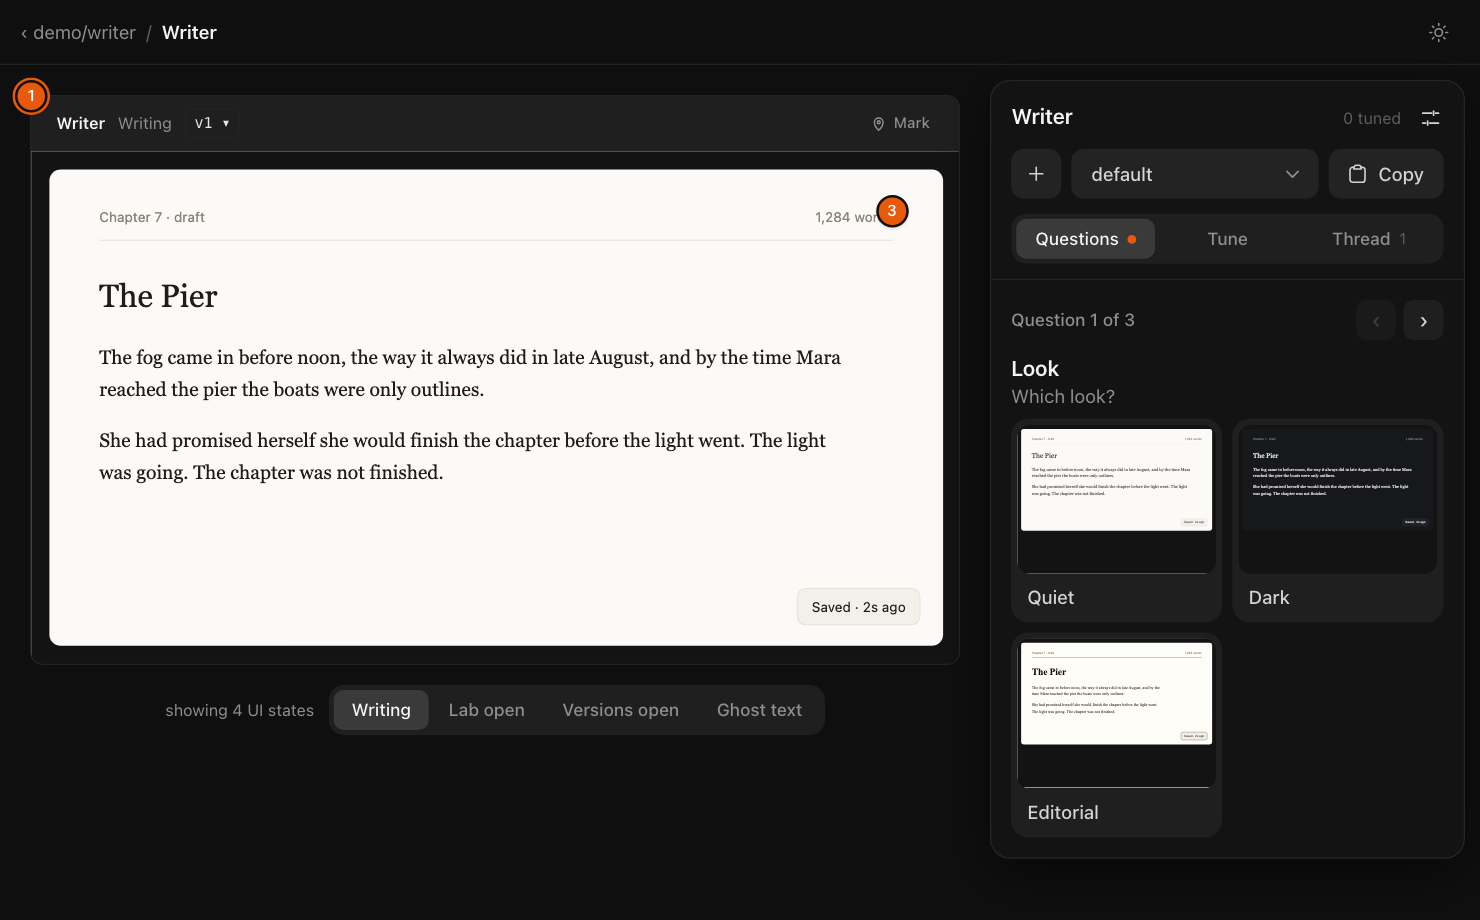
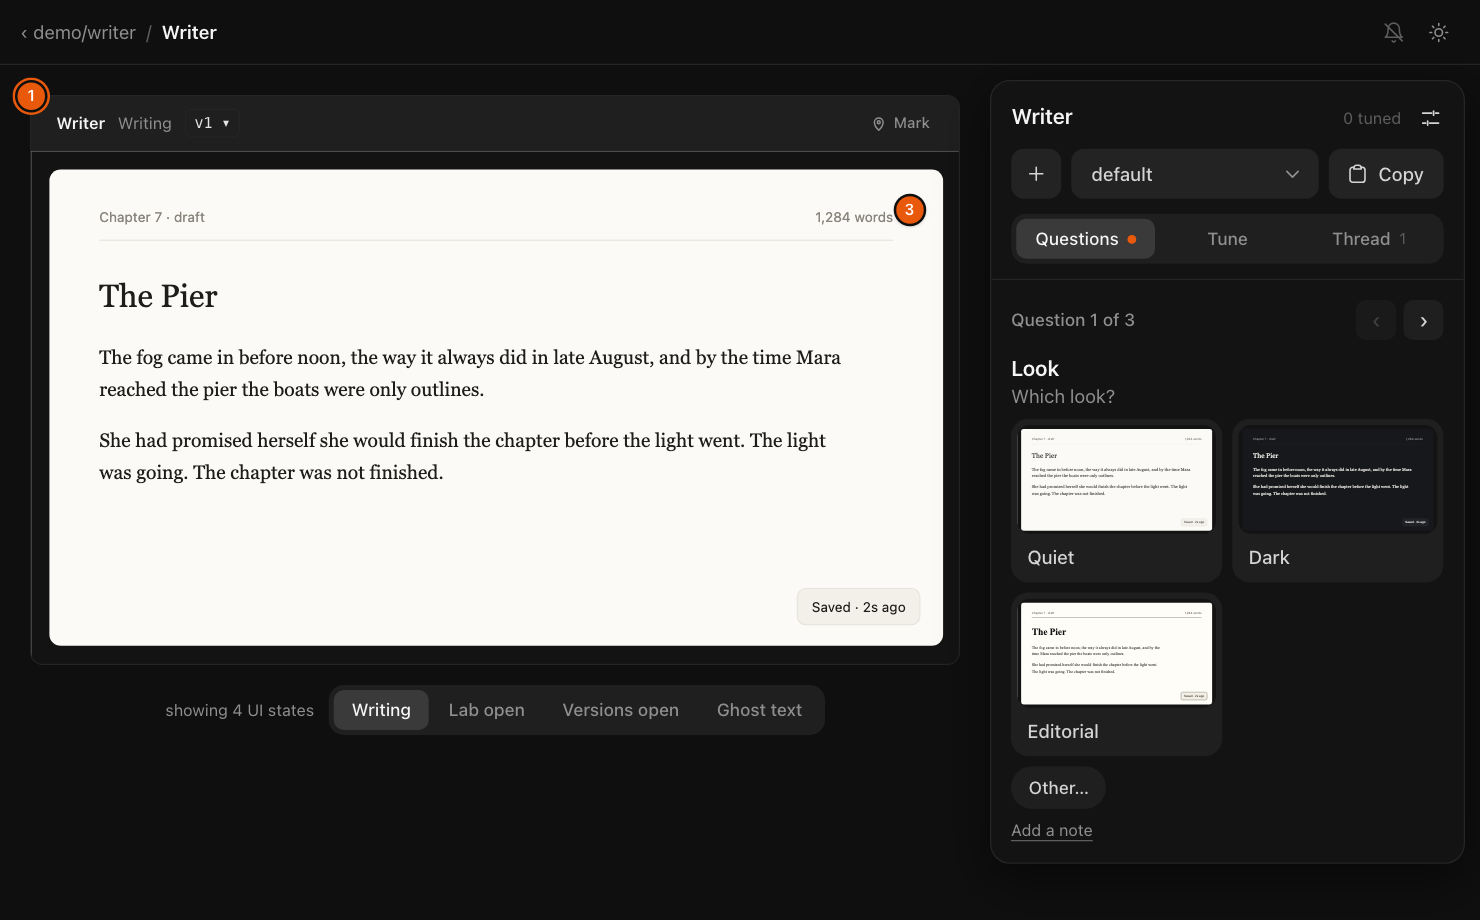
docs(readme): re-record the stills and demo gif on the new loop
The gif now shows Sent, Not seen yet, then Delivered once the agent reads
the feedback, and the agent's v2.

diff --git a/README.md b/README.md
@@ -8,10 +8,19 @@ questions beside it: pick a look from pictures, tune the knobs it exposed, leave
 comments on the parts it marked, then press **Send**, at your own pace. Nothing
 the agent calls waits for you: it gets the whole batch once and revises.
 
-<picture>
-  <source media="(prefers-color-scheme: dark)" srcset="docs/mockpit-dark.png">
-  <img width="100%" alt="The Writer mock on its first question, Look: the Writing state on the stage with a numbered question pin, the strip of four UI states below it, and the panel offering three looks (Quiet, Dark, Editorial) as picture options" src="docs/mockpit-light.png">
-</picture>
+<table>
+  <tr>
+    <td width="50%" valign="top">
+      <picture>
+        <source media="(prefers-color-scheme: dark)" srcset="docs/mockpit-dark.png">
+        <img width="100%" alt="The Writer mock on its first question, Look: the Writing state on the stage with a numbered question pin, the strip of four UI states below it, and the panel offering three looks (Quiet, Dark, Editorial) as picture options" src="docs/mockpit-light.png">
+      </picture>
+    </td>
+    <td width="50%" valign="top">
+      <img width="100%" alt="Animated demo: the agent publishes the Writer mock; the user previews the three looks on the stage, picks Quiet, answers where the trim goes, keeps a part from another look and presses Send; the top bar reads Sent, Not seen yet, then Delivered once the agent reads the feedback; the agent replies and publishes v2" src="docs/mockpit-demo.gif">
+    </td>
+  </tr>
+</table>
 
 ## Fork of sideshow
 
